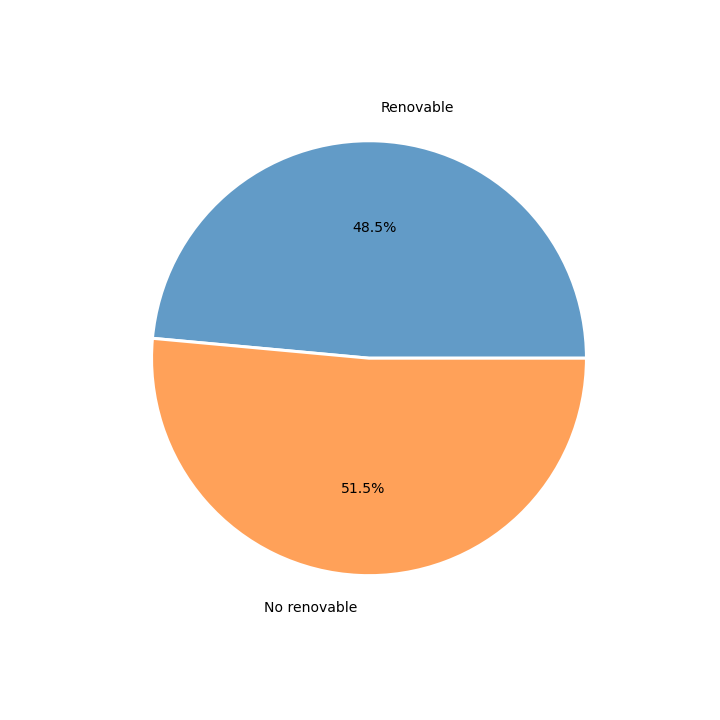
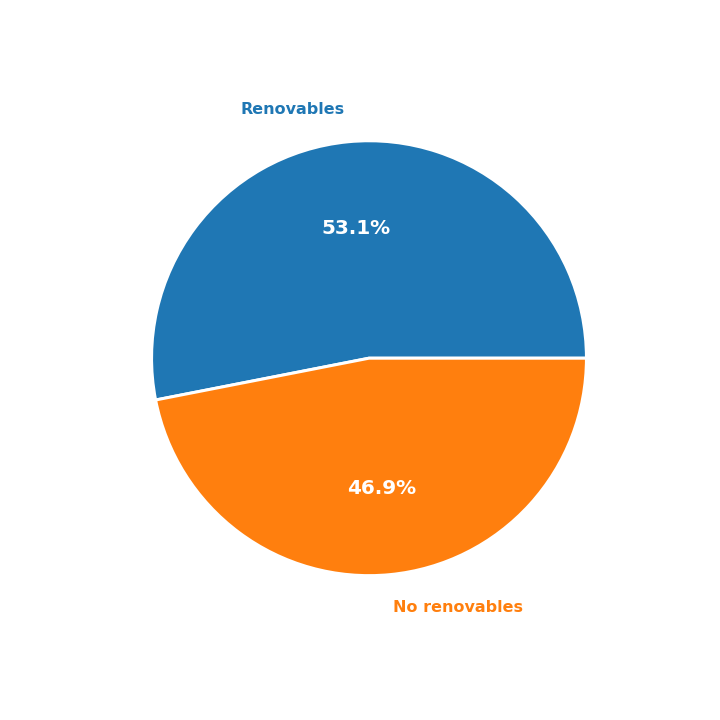
add second pie chart

diff --git a/_posts/2022-11-28-visualitzacio_pie_chart.md b/_posts/2022-11-28-visualitzacio_pie_chart.md
@@ -6,6 +6,15 @@ tags:
 ## Generació d'energia elèctrica a Espanya
 (Del 21/11/2022 al 28/11/2022)
 
-Tamany segons GWh generats en una setmana.
+Tamany segons GWh generats de mitjana en una setmana.
 ![Pie Chart](/images/2022-11-28/pie_chart.png)
 Font de dades: Red eléctrica de España
+
+## Estructura de la generación de electricidad por tecnologías
+(Del 21/11/2022 al 28/11/2022)
+
+Tamany segons GWh generats de mitjana en una setmana.
+![Pie Chart 2](/images/2022-11-28/pie_chart2.png)
+Font de dades: Red eléctrica de España
+
+Aquest és un exemple de dataset que no funcionaria bé per a visualitzar amb un pie chart.
